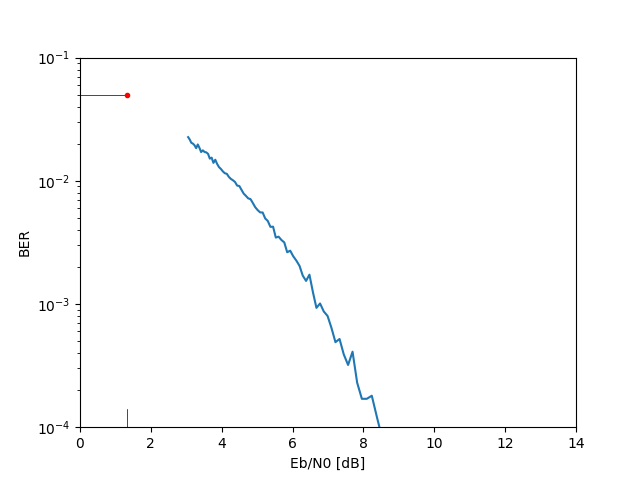
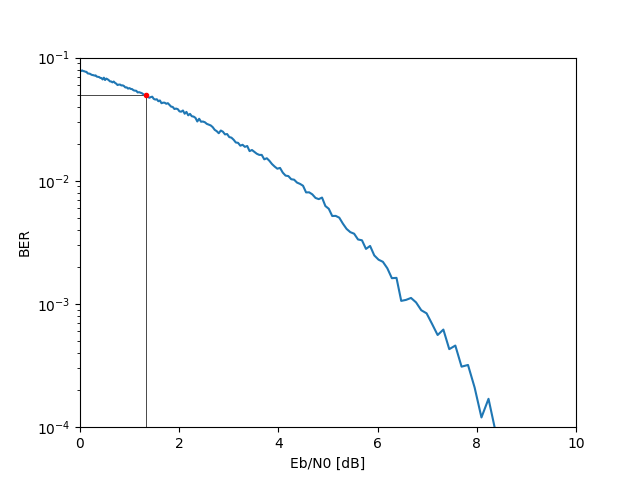
plots verder afgewerkt

diff --git a/Python/moddet_plots.py b/Python/moddet_plots.py
@@ -1,0 +1,229 @@
+from numpy.lib.index_tricks import IndexExpression, MGridClass
+from kwantisatie import Kwantisatie
+from broncodering import Broncodering
+from kanaalcodering import Kanaalcodering
+from moddet import ModDet
+import numpy as np
+import matplotlib.pyplot as plt
+import warnings
+import copy
+import time
+import random
+import math
+from scipy.fft import fft, fftfreq
+from scipy import special
+
+from playsound import playsound
+
+#variables:
+T = 10**(-6)
+Ns = 6
+f0 = 2*10**6
+alpha = 0.5
+Lf = 10
+N0 = 0.0005
+sigma = math.sqrt(N0*Ns/2/T)
+hch = 1
+theta = math.pi / 16
+
+obj = ModDet()
+    
+######### PLOT |P(f)| #########
+def plot_pulsen():
+    def plot_puls(alhpa, filename):
+        t_theorie = np.linspace(-1000*Lf*T, 1000*Lf*T, 2*Lf*Ns*1000 + 1)
+        t_vector = np.linspace(-Lf*T, Lf*T, 2*Lf*Ns + 1)
+        afgeknot = obj.pulse(t_vector, T, alhpa)
+        afgeknot_fourier = fft(afgeknot)*T/Ns
+        afgeknot_x = fftfreq(2*Lf*Ns + 1, d=T/Ns)
+
+        theorie = obj.pulse(t_theorie, T, alpha)
+        theorie_fourier = fft(theorie)*T/Ns
+        theorie_x = fftfreq(2*1000*Lf*Ns +1, d=T/Ns)
+
+        #plt.plot(afgeknot_x, np.abs(afgeknot_fourier), label = "afgeknot")
+        plt.semilogy(afgeknot_x, np.abs(afgeknot_fourier), label = "afgeknot")
+        #plt.plot(theorie_x, np.abs(theorie_fourier), label = "theoretisch")
+        plt.semilogy(theorie_x, np.abs(theorie_fourier), label = "theoretisch")
+        plt.legend()
+        plt.xlabel('frequentie [Hz]')
+        plt.ylabel('|P(f)|')
+        plt.ylim((10**(-7), 5*10**(-3)))
+        plt.savefig(filename)
+        plt.close()
+        return
+
+    # plot_puls(0.05, "moddet/puls/alpha_05.png")
+    # plot_puls(0.5, "moddet/puls/alpha_50.png")
+    # plot_puls(0.95, "moddet/puls/alpha_95.png")
+    return
+
+######### PLOT BER #########
+def plot_BER_alle3():
+    def plot_ber(constellatie, L):
+        tabel = obj.mappingstabel(constellatie)
+        mc = math.log2(len(tabel))
+        Eb = 1/mc
+        N0_list = [i*0.005 + 0.0001 for i in range(200)]
+        N = 100 #aantal steekproeven
+
+        #bitvector met lengte L
+        bitstring = bin(random.randint(0,2**L))[2:].zfill(L)
+        bitvector_in = []
+        for bit in bitstring:
+            bitvector_in.append(int(bit))
+
+        BER_mx = np.reshape(np.zeros(len(N0_list)*N), (len(N0_list), N))
+        for i in range(0,len(N0_list)):
+            for j in range(0,100):
+                N0 = N0_list[i]
+                bitvector_out = obj.modulation_detection(bitvector_in, constellatie, T, Ns, f0, alpha, Lf, N0, hch, theta)
+                aantal_fout = sum(abs(np.array(bitvector_out)-np.array(bitvector_in)))
+                BER_mx[i,j] = aantal_fout/L
+        BER = np.mean(BER_mx, 1)
+        x = 10*np.log10(np.ones(len(N0_list))*Eb/N0_list)
+        plt.semilogy(x, BER, label = constellatie)
+        return
+
+    plot_ber('BPSK', 1000)
+    plot_ber('4QAM', 1000)
+    plot_ber('4PAM', 1000)
+    x = np.arange(0, 14, 0.01)
+    # Q(x) = 0.5 - 0.5*erf(x/sqrt(2))
+    Q = 0.5 - 0.5*special.erf(np.sqrt(2*10**(x/10)) / math.sqrt(2))
+    plt.semilogy(x, Q, label = 'Q(sqrt(2Eb/N0)')
+
+    plt.ylim((10**(-4), 10**(-1)))
+    plt.xlim((0,14))
+    plt.xlabel('Eb/N0 [dB]')
+    plt.ylabel('BER')
+    plt.legend()
+    plt.savefig('moddet/BER/alle3_v2.png')
+    plt.close()
+
+    return
+
+def plot_BER_037():
+    def plot_ber(constellatie, L):
+        tabel = obj.mappingstabel(constellatie)
+        mc = math.log2(len(tabel))
+        Eb = 1/mc
+        N0_list = [i*0.005 + 0.0001 for i in range(200)]
+        N = 100 #aantal steekproeven
+
+        #bitvector met lengte L
+        bitstring = bin(random.randint(0,2**L))[2:].zfill(L)
+        bitvector_in = []
+        for bit in bitstring:
+            bitvector_in.append(int(bit))
+
+        BER_mx = np.reshape(np.zeros(len(N0_list)*N), (len(N0_list), N))
+        for i in range(0,len(N0_list)):
+            for j in range(0,100):
+                N0 = N0_list[i]
+                bitvector_out = obj.modulation_detection(bitvector_in, constellatie, T, Ns, f0, alpha, Lf, N0, hch, theta)
+                aantal_fout = sum(abs(np.array(bitvector_out)-np.array(bitvector_in)))
+                BER_mx[i,j] = aantal_fout/L
+        BER = np.mean(BER_mx, 1)
+        x = 10*np.log10(np.ones(len(N0_list))*Eb/N0_list)
+        plt.semilogy(x, BER)
+        plt.vlines(1.33, 0, 0.05, color = 'k', lw = 0.5)
+        plt.hlines(0.05, 0, 1.33, color = 'k', lw =0.5)
+        plt.plot([1.33], [0.05], marker='o', markersize=3, color="red")
+        plt.ylim((10**(-4), 10**(-1)))
+        plt.xlim((0,10))
+        plt.xlabel('Eb/N0 [dB]')
+        plt.ylabel('BER')
+        plt.savefig('moddet/BER/BPSK.png')
+        plt.close()
+        return
+
+    plot_ber('BPSK', 1000)
+    return
+
+######### PLOT SCATTER #########
+
+def plot_scatter_4QAM(N0, filename):
+    sigma = math.sqrt(N0*Ns/2/T)
+
+    bitstring = bin(random.randint(0,2**500))[2:].zfill(500)
+    bitvector_in = []
+    for bit in bitstring:
+        bitvector_in.append(int(bit))
+
+    a = obj.mapper(bitvector_in, '4QAM')
+    s = obj.moduleer(a, T, Ns, f0, alpha, Lf)
+    r = obj.kanaal(s, sigma, hch)
+    rdemod = obj.demoduleer(r, T, Ns, f0, alpha, Lf, theta)
+    rdown = obj.decimatie(rdemod, Ns, Lf)
+    u = obj.maak_decisie_variabele(rdown, hch, theta)
+
+    u_real =  [e.real for e in u]
+    u_complex = [e.imag for e in u]
+    plt.scatter(u_real, u_complex, marker=".")
+    plt.xlabel('real(u)')
+    plt.ylabel('imag(u)')
+    plt.savefig(filename)
+    plt.close()
+                
+
+    return
+
+######### PLOT AMPLITUDESCHATTINGSFOUT BPSK #########
+def plot_epsilon_scatter(constellatie, epsilon, filename):
+    hch_hat = hch * (1+epsilon)
+    bitstring = bin(random.randint(0,2**500))[2:].zfill(500)
+    bitvector_in = []
+    for bit in bitstring:
+        bitvector_in.append(int(bit))
+
+    a = obj.mapper(bitvector_in, constellatie)
+    s = obj.moduleer(a, T, Ns, f0, alpha, Lf)
+    r = obj.kanaal(s, 0, hch)
+    rdemod = obj.demoduleer(r, T, Ns, f0, alpha, Lf, theta)
+    rdown = obj.decimatie(rdemod, Ns, Lf)
+    u = obj.maak_decisie_variabele(rdown, hch_hat, theta)
+
+    u_real =  [e.real for e in u]
+    u_complex = [e.imag for e in u]
+    plt.scatter(u_real, u_complex, marker=".")
+    plt.xlabel('real(u)')
+    plt.ylabel('imag(u)')
+    plt.savefig(filename)
+    plt.close()
+    return
+
+def plot_phi_scatter(constellatie, phi, filename):
+    theta_hat = theta + phi
+    bitstring = bin(random.randint(0,2**500))[2:].zfill(500)
+    bitvector_in = []
+    for bit in bitstring:
+        bitvector_in.append(int(bit))
+
+    a = obj.mapper(bitvector_in, constellatie)
+    s = obj.moduleer(a, T, Ns, f0, alpha, Lf)
+    r = obj.kanaal(s, 0, hch)
+    rdemod = obj.demoduleer(r, T, Ns, f0, alpha, Lf, theta)
+    rdown = obj.decimatie(rdemod, Ns, Lf)
+    u = obj.maak_decisie_variabele(rdown, hch, theta_hat)
+
+    u_real =  [e.real for e in u]
+    u_complex = [e.imag for e in u]
+    plt.scatter(u_real, u_complex, marker=".")
+    plt.xlabel('real(u)')
+    plt.ylabel('imag(u)')
+    plt.savefig(filename)
+    plt.close()
+    
+    return
+
+# plot_BER_037()
+# plot_BER_alle3()
+# plot_scatter_4QAM(0.000, 'moddet/scatter/4QAM_000.png')
+# plot_scatter_4QAM(0.001, 'moddet/scatter/4QAM_001.png')
+# plot_scatter_4QAM(0.01, 'moddet/scatter/4QAM_010.png')
+# plot_scatter_4QAM(0.1, 'moddet/scatter/4QAM_100.png')
+# plot_epsilon_scatter('BPSK', 0.1, 'moddet/scatter/BPSK_epsilon.png')
+# plot_epsilon_scatter('4PAM', 0.1, 'moddet/scatter/4PAM_epsilon.png')
+# plot_epsilon_scatter('4QAM', 0.1, 'moddet/scatter/4QAM_epsilon.png')
+# plot_phi_scatter('4QAM', math.pi/16, 'moddet/scatter/4QAM_phi.png')

diff --git a/Python/run_simulation.py b/Python/run_simulation.py
@@ -11,6 +11,7 @@ import time
 import random
 import math
 from scipy.fft import fft, fftfreq
+from scipy import special
 
 from playsound import playsound
 
@@ -58,7 +59,7 @@ def run_moddet():
     f0 = 2*10**6
     alpha = 0.5
     Lf = 10
-    N0 = 0.0005
+    N0 = 0.37
     sigma = math.sqrt(N0*Ns/2/T)
     hch = 1
     theta = math.pi / 16
@@ -72,73 +73,6 @@ def run_moddet():
         slice = len(bitvector_in)
     else:
         slice = -1
-    
-    ######### PLOT |P(f)| #########
-    
-    def plot_puls(alhpa, filename):
-        t_theorie = np.linspace(-1000*Lf*T, 1000*Lf*T, 2*Lf*Ns*1000 + 1)
-        t_vector = np.linspace(-Lf*T, Lf*T, 2*Lf*Ns + 1)
-        afgeknot = obj.pulse(t_vector, T, alhpa)
-        afgeknot_fourier = fft(afgeknot)*T/Ns
-        afgeknot_x = fftfreq(2*Lf*Ns + 1, d=T/Ns)
-
-        theorie = obj.pulse(t_theorie, T, alpha)
-        theorie_fourier = fft(theorie)*T/Ns
-        theorie_x = fftfreq(2*1000*Lf*Ns +1, d=T/Ns)
-
-        #plt.plot(afgeknot_x, np.abs(afgeknot_fourier), label = "afgeknot")
-        plt.semilogy(afgeknot_x, np.abs(afgeknot_fourier), label = "afgeknot")
-        #plt.plot(theorie_x, np.abs(theorie_fourier), label = "theoretisch")
-        plt.semilogy(theorie_x, np.abs(theorie_fourier), label = "theoretisch")
-        plt.legend()
-        plt.xlabel('frequentie [Hz]')
-        plt.ylabel('|P(f)|')
-        plt.ylim((10**(-7), 5*10**(-3)))
-        plt.savefig(filename)
-        plt.close()
-        return
-
-    # plot_puls(0.05, "moddet/puls/alpha_05.png")
-    # plot_puls(0.5, "moddet/puls/alpha_50.png")
-    # plot_puls(0.95, "moddet/puls/alpha_95.png")
-
-    ######### PLOT BER #########
-    def plot_ber(constellatie, L):
-        tabel = obj.mappingstabel(constellatie)
-        mc = math.log2(len(tabel))
-        Eb = 1/mc
-        N0_list = [i*0.005 + 0.0001 for i in range(100)]
-        N = 100 #aantal steekproeven
-
-        #bitvector met lengte L
-        bitstring = bin(random.randint(0,2**L))[2:].zfill(L)
-        bitvector_in = []
-        for bit in bitstring:
-            bitvector_in.append(int(bit))
-
-        BER_mx = np.reshape(np.zeros(len(N0_list)*N), (len(N0_list), N))
-        for i in range(0,len(N0_list)):
-            for j in range(0,100):
-                N0 = N0_list[i]
-                bitvector_out = obj.modulation_detection(bitvector_in, constellatie, T, Ns, f0, alpha, Lf, N0, hch, theta)
-                aantal_fout = sum(abs(np.array(bitvector_out)-np.array(bitvector_in)))
-                BER_mx[i,j] = aantal_fout/L
-        BER = np.mean(BER_mx, 1)
-        x = 10*np.log10(np.ones(len(N0_list))*Eb/N0_list)
-        plt.semilogy(x, BER)
-        plt.ylim((10**(-4), 10**(-1)))
-        plt.xlim((0,14))
-        plt.xlabel('Eb/N0 [dB]')
-        plt.ylabel('BER')
-        plt.axvline(1.33, 0, 0.05, color = 'k', lw = 0.5)
-        plt.hlines(0.05, 0, 1.33, color = 'k', lw =0.5)
-        plt.plot([1.33], [0.05], marker='o', markersize=3, color="red")
-        plt.savefig('moddet/BER/BPSK.png')
-        plt.close()
-        return
-    
-    plot_ber('BPSK', 1000)
-    return
 
     print('TESTING MODDET:')
     print('---------------')
@@ -154,15 +88,13 @@ def run_moddet():
     if bitvector_in == bitvector_out: print('OK') 
     else: print('NOT OK')
 
-    return
-
     print('4QAM: ')
     a = obj.mapper(bitvector_in, '4QAM')
     s = obj.moduleer(a, T, Ns, f0, alpha, Lf)
     r = obj.kanaal(s, sigma, hch)
     rdemod = obj.demoduleer(r, T, Ns, f0, alpha, Lf, theta)
     rdown = obj.decimatie(rdemod, Ns, Lf)
-    u = obj.maak_decisie_variabele(rdown, hch, theta, 1, "moddet/4QAM_scatter.png")
+    u = obj.maak_decisie_variabele(rdown, hch, theta)
     a_estim = obj.decisie(u, '4QAM')
     bitvector_out = obj.demapper(a_estim, '4QAM')
     if bitvector_in[:slice] == bitvector_out: print('OK') 

diff --git a/Python/moddet.py b/Python/moddet.py
@@ -128,7 +128,7 @@ class ModDet():
         return np.array(a_estim)
     
     # funcie die de decisie variabele aanmaakt
-    def maak_decisie_variabele(self,rdown,hch_hat,theta_hat, scatterplot = 0, filename = ''):
+    def maak_decisie_variabele(self,rdown,hch_hat,theta_hat):
         # rdown : vector met het gedecimeerde ontvangen signaal
         # hch_hat : schatting van amplitude van het kanaal
         # theta_hat : schatting van fase van de demodulator
@@ -136,13 +136,6 @@ class ModDet():
         # Implementeer vanaf hier
         u = rdown/hch_hat*np.exp(1j*theta_hat)
 
-        if scatterplot:
-            u_real =  [e.real for e in u]
-            u_complex = [e.imag for e in u]
-            plt.scatter(u_real, u_complex, marker=".")
-            plt.savefig(filename, dpi=300)
-            plt.close()
-                
         # u : vector met decisie-variabele
         return u
     
@@ -198,11 +191,7 @@ class ModDet():
         t_vector = np.linspace(-Lf*T, Lf*T, 2*Lf*Ns + 1)
         pulsevector = self.pulse(t_vector, T, alpha)
        
-        rdemod = Ts * np.convolve(pulsevector,rr)  
-        time = np.linspace(0, T*len(r)*Ns, len(rdemod) )
-        # plt.plot(time, abs(rdemod))
-        # plt.show()
-        # plt.close()
+        rdemod = Ts * np.convolve(pulsevector,rr) 
         return rdemod
     
     # functie die de pulse aanmaakt - niet veranderen
